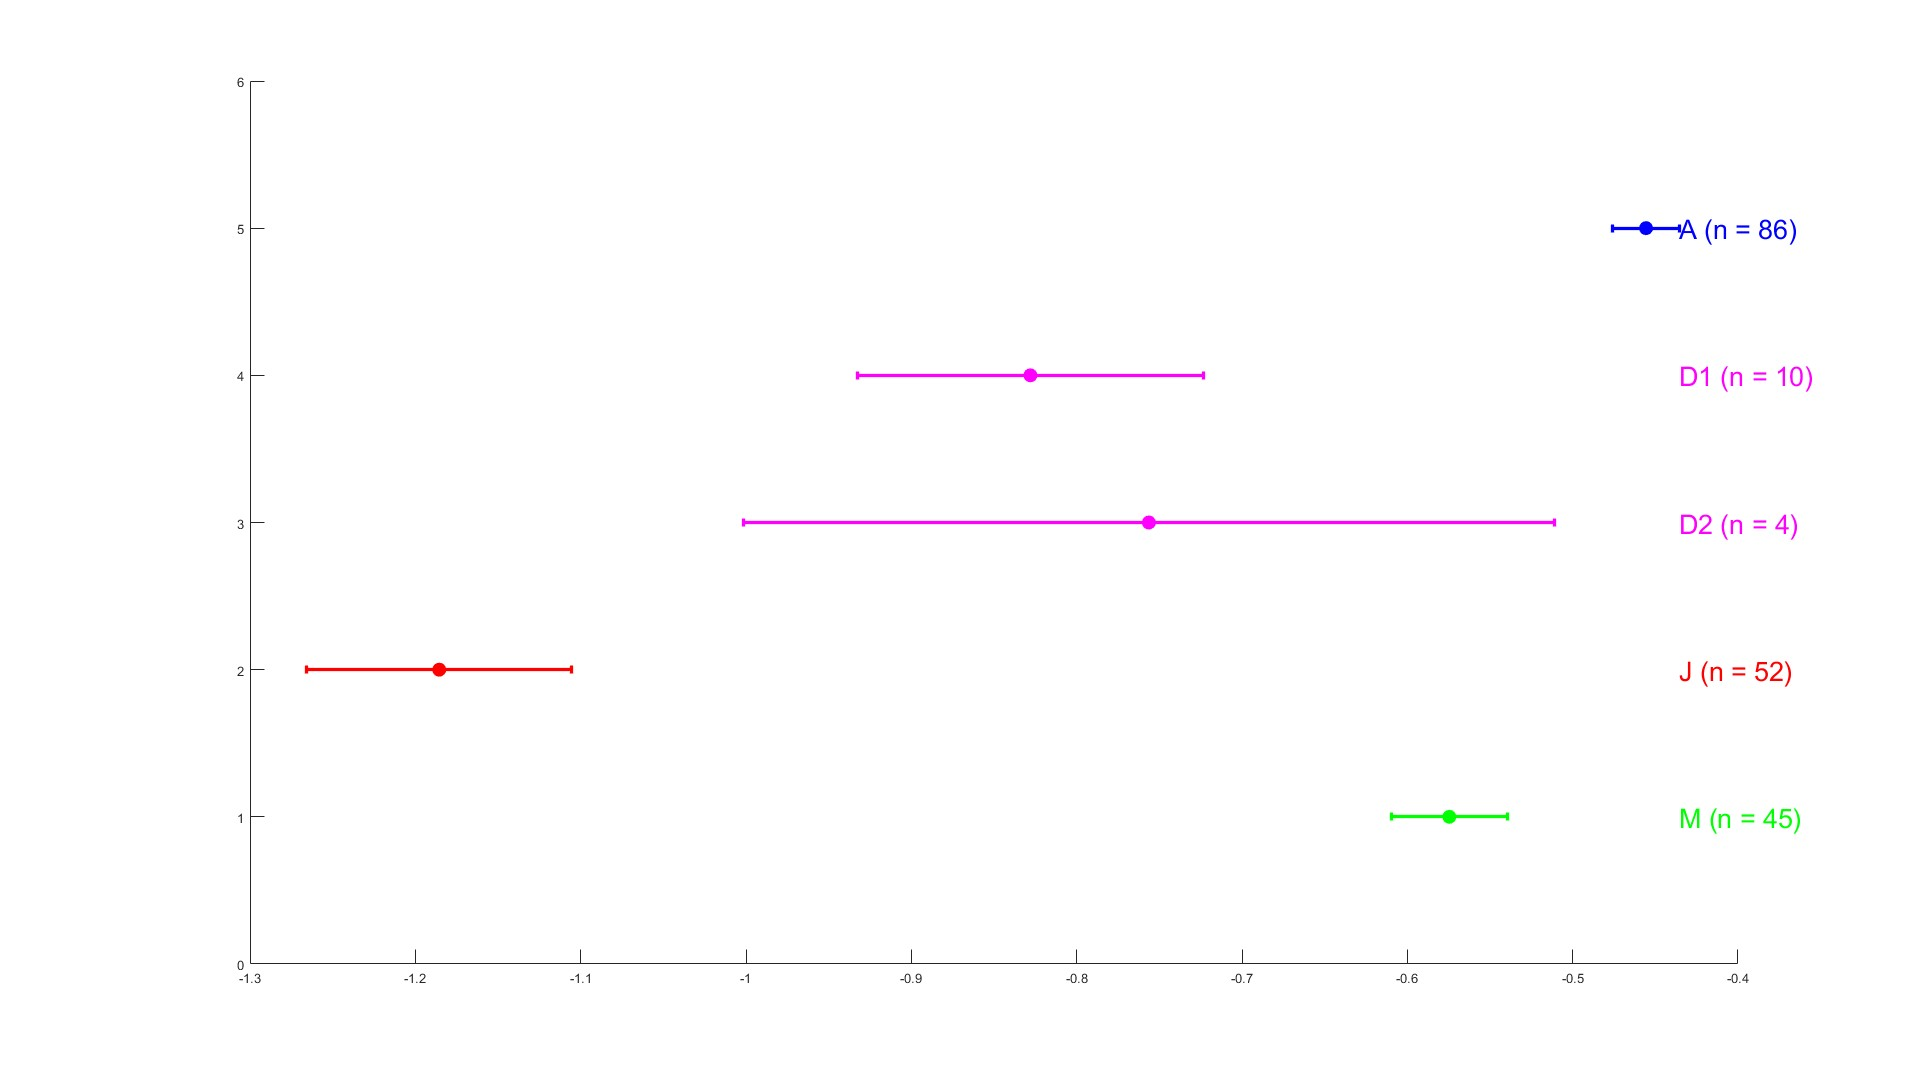
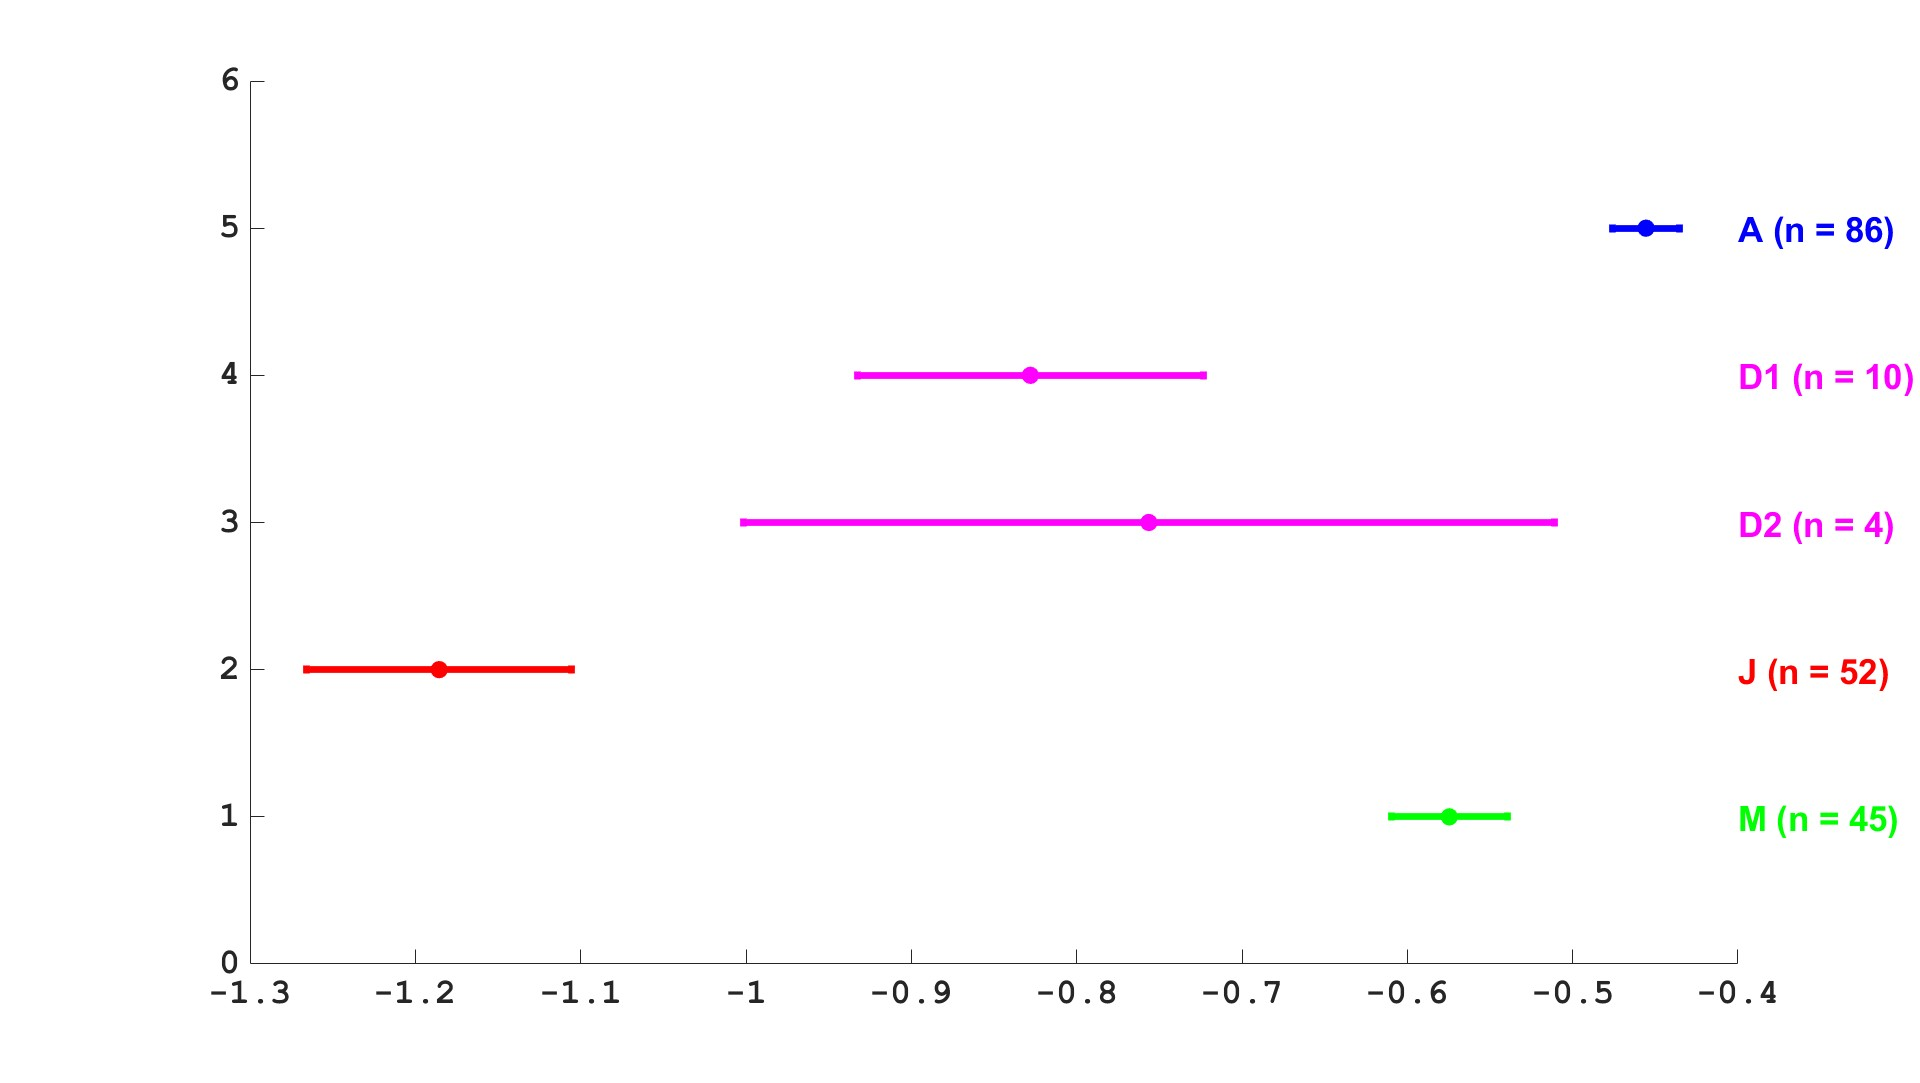
chanfes

diff --git a/Arduino-Leonardo/Analysis/Season-of-Birth/SeasonOfBirth.m b/Arduino-Leonardo/Analysis/Season-of-Birth/SeasonOfBirth.m
@@ -18,27 +18,27 @@ validcats = struct;
 % modelVars.control = ["combHFP",... 
 %                    "study", "sex", "ethnicGroup", "RLM_Leo_RG"];
 % modelVars.month = ["combHFP",... 
-%                  "study", "sex", "ethnicGroup", "RLM_Leo_RG", "monthSin", "monthCos"];
+%                "study", "sex", "ethnicGroup", "RLM_Leo_RG", "monthSin", "monthCos"];
 % modelVars.seasonCat = ["combHFP",... 
 %                "study", "sex", "ethnicGroup", "RLM_Leo_RG", "season"];
 % modelVars.season = ["combHFP",... 
-%                 "study", "sex", "ethnicGroup", "RLM_Leo_RG", "seasonSin", "seasonCos"];
+%               "study", "sex", "ethnicGroup", "RLM_Leo_RG", "seasonSin", "seasonCos"];
 % modelVars.day = ["combHFP",... 
 %                "study", "sex", "ethnicGroup", "RLM_Leo_RG", "daylightHours"];
 % sunshine hours available for UK only!
 % modelVars.sun = ["combHFP",... 
 %                "study", "sex", "ethnicGroup", "RLM_Leo_RG", "sunshineHours"];
-modelVars.irr_pop = ["combHFP",... 
-                 "study", "sex", "ethnicGroup", "RLM_Leo_RG", "irradiance_pop"];
-modelVars.irr_area = ["combHFP",... 
-                 "study", "sex", "ethnicGroup", "RLM_Leo_RG", "irradiance_area"];
+% modelVars.irr_pop = ["combHFP",... 
+%                  "study", "sex", "ethnicGroup", "RLM_Leo_RG", "irradiance_pop"];
+% modelVars.irr_area = ["combHFP",... 
+%                  "study", "sex", "ethnicGroup", "RLM_Leo_RG", "irradiance_area"];
 
-validcats.ethnicGroup = ["white", "asian", "mixed-wa"];
+validcats.ethnicGroup = ["asian", "white", "mixed-wa"];
 validcats.country = "UK";
-validcats.country = ["UK", "China"];
-validcats.year = [1980 2023];
-%validcats.season = ["spring", "summer", "autumn", "winter"];
-validcats.devCombHFP = ["uno", "leo_y"];
+%validcats.country = ["UK", "China"];
+%validcats.year = [1980 2023];
+%validcats.season = ["summer", "autumn", "winter", "spring"];
+%validcats.devCombHFP = ["uno", "leo_y"];
 validcats.sex = ["M","F"];
 
 LMEs;
@@ -83,11 +83,12 @@ vars = string(fieldnames(s));
 t = tiledlayout(1,length(vars));
 for var = 1:length(vars)
     nexttile
-    plot(1:12, s.(vars(var)), 'LineWidth', 3, 'Color', cols(var))
+    plot(1:12, s.(vars(var)), 'LineWidth', 5, 'Color', cols(var), 'Marker', 'x', 'MarkerEdgeColor', 'k')
     xlim([1 12])
     ylim([-1 1])
     set(gca, 'XTick',(1:12), 'XTickLabel', monthVars)
     title(strcat("Month ", vars(var), " Conversion"))
+    set(gca,'FontSize',26, 'FontName', 'Courier', 'FontWeight', 'bold')
 end
 
 %%
@@ -103,4 +104,8 @@ for var = 1:length(vars)
     ylim([-1 1])
     set(gca, 'XTick',(1:4), 'XTickLabel', ["spring", "summer", "autumn", "winter"])
     title(strcat("Season ", vars(var), " Conversion"))
+    set(gca,'FontSize',26, 'FontName', 'Courier', 'FontWeight', 'bold')
 end
+
+%%
+WorldHeatMap(c, "testVarName", "N", "countryVarName", "Country", "undefinedVarName", "", "scalingType", "count")

diff --git a/Arduino-Leonardo/Analysis/Season-of-Birth/FindMonthNum.m b/Arduino-Leonardo/Analysis/Season-of-Birth/FindMonthNum.m
@@ -44,14 +44,15 @@ end
 %%
 hold on
 for var = 1:length(modelNames)
-    plot(1:12, pVals.(modelNames(var)), 'Marker', 'x', 'Color', cols(var,:), 'LineWidth', 3, 'MarkerSize', 10);
+    plot(1:12, pVals.(modelNames(var)), 'Marker', 'x', 'Color', cols(var,:), 'LineWidth', 5, 'MarkerSize', 10);
 end
-plot(1:12, repmat(.05, [1 12]), 'Marker', 'none', 'LineStyle', '--', 'Color', 'k');
+plot(1:12, repmat(.05, [1 12]), 'Marker', 'none', 'LineStyle', '--', 'Color', 'k', 'LineWidth', 5, 'Color', 'k');
 xlim([1 12]); ylim([0 1]);
 xlabel("Number of months after birth considered");
 ylabel("P-value of variable in lme");
+set(gca,'FontSize',26, 'FontName', 'Courier','FontWeight','bold')
 title("Significance of weather variables")
-legend(legendLabs, "Interpreter","none");
+legend(legendLabs, "Interpreter","none","Location","north");
 hold off
 
 for var = 1:length(modelNames)

diff --git a/Arduino-Leonardo/Analysis/Season-of-Birth/scripts/StudyGraphs.m b/Arduino-Leonardo/Analysis/Season-of-Birth/scripts/StudyGraphs.m
@@ -7,13 +7,15 @@ for i = 1:length(studies)
     yVal = length(studies)+1-i;
     errorbar(studyStats.mean(i), yVal,...
         0, 0, studyStats.se(i), studyStats.se(i),...
-        'Marker', 'o', 'MarkerSize', 8, 'MarkerFaceColor', cols(i,:), 'LineWidth', 2.5, 'Color', cols(i,:))
+        'Marker', 'o', 'MarkerSize', 8, 'MarkerFaceColor', cols(i,:), 'LineWidth', 5, 'Color', cols(i,:))
     textStr = strcat(studies(i), " (n = ", num2str(studyStats.n(i)), ")");
-    text(textX, yVal, textStr,'FontSize', 20,'Color', cols(i,:))
+    text(-0.4, yVal, textStr,'FontSize', 26,'Color', cols(i,:), 'FontWeight', 'bold')
 end
 hold off
 
 ylim([0,length(studies)+1])
+set(gca,'FontSize',26, 'FontName', 'Courier', 'FontWeight', 'bold')
 
 input("Press ENTER to continue");
 close all
+hold off

diff --git a/Arduino-Leonardo/Analysis/Season-of-Birth/scripts/ViolinGraphs.m b/Arduino-Leonardo/Analysis/Season-of-Birth/scripts/ViolinGraphs.m
@@ -1,6 +1,7 @@
 % violin plots
 violinData = struct;
 vars = dataVars(endsWith(dataVars, "_RG"));
+seasonVars = ["spring", "summer", "autumn", "winter"];
 
 seasonColours = [0 1 0; 1 1 0; 1 0 0; 0 0 1];
 
@@ -16,6 +17,7 @@ for var = 1:length(vars)
     violin(violinData.(vars(var)), 'xlabel', strcat(seasonVars), 'facecolor', seasonColours);
     title(vars(var),'Interpreter','none')
 end
+set(gca,'FontSize',26, 'FontName', 'Courier', 'FontWeight', 'bold')
 
 input("Press ENTER to continue");
 close all
